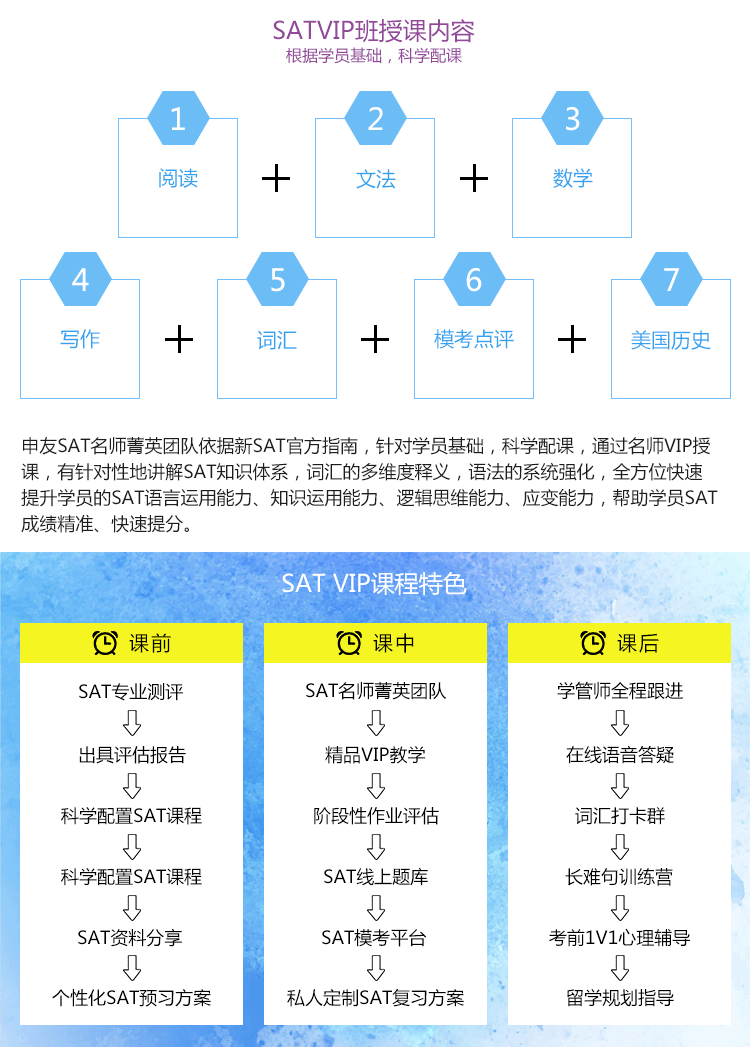
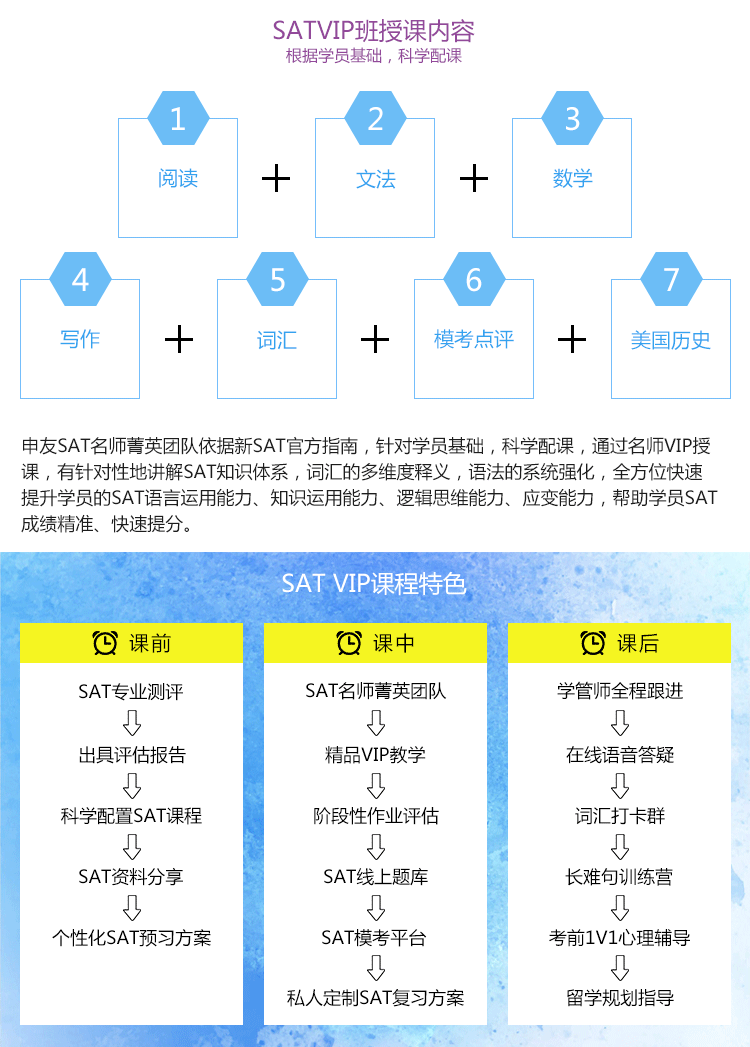
SAT Vip文案调整

Changed region(s): [[0.0613, 0.8863, 0.276, 0.978], [0.0613, 0.8252, 0.276, 0.8558]]

diff --git a/web/wap/css/sat.css b/web/wap/css/sat.css
@@ -3,7 +3,7 @@
   width: 85%;
   height: 2.1rem;
   line-height: 2.1rem;
-  margin-bottom: 5px;
+  margin-bottom: .6rem;
   border: 1px solid #ccc;
   font-size: 0.6rem;
 }
